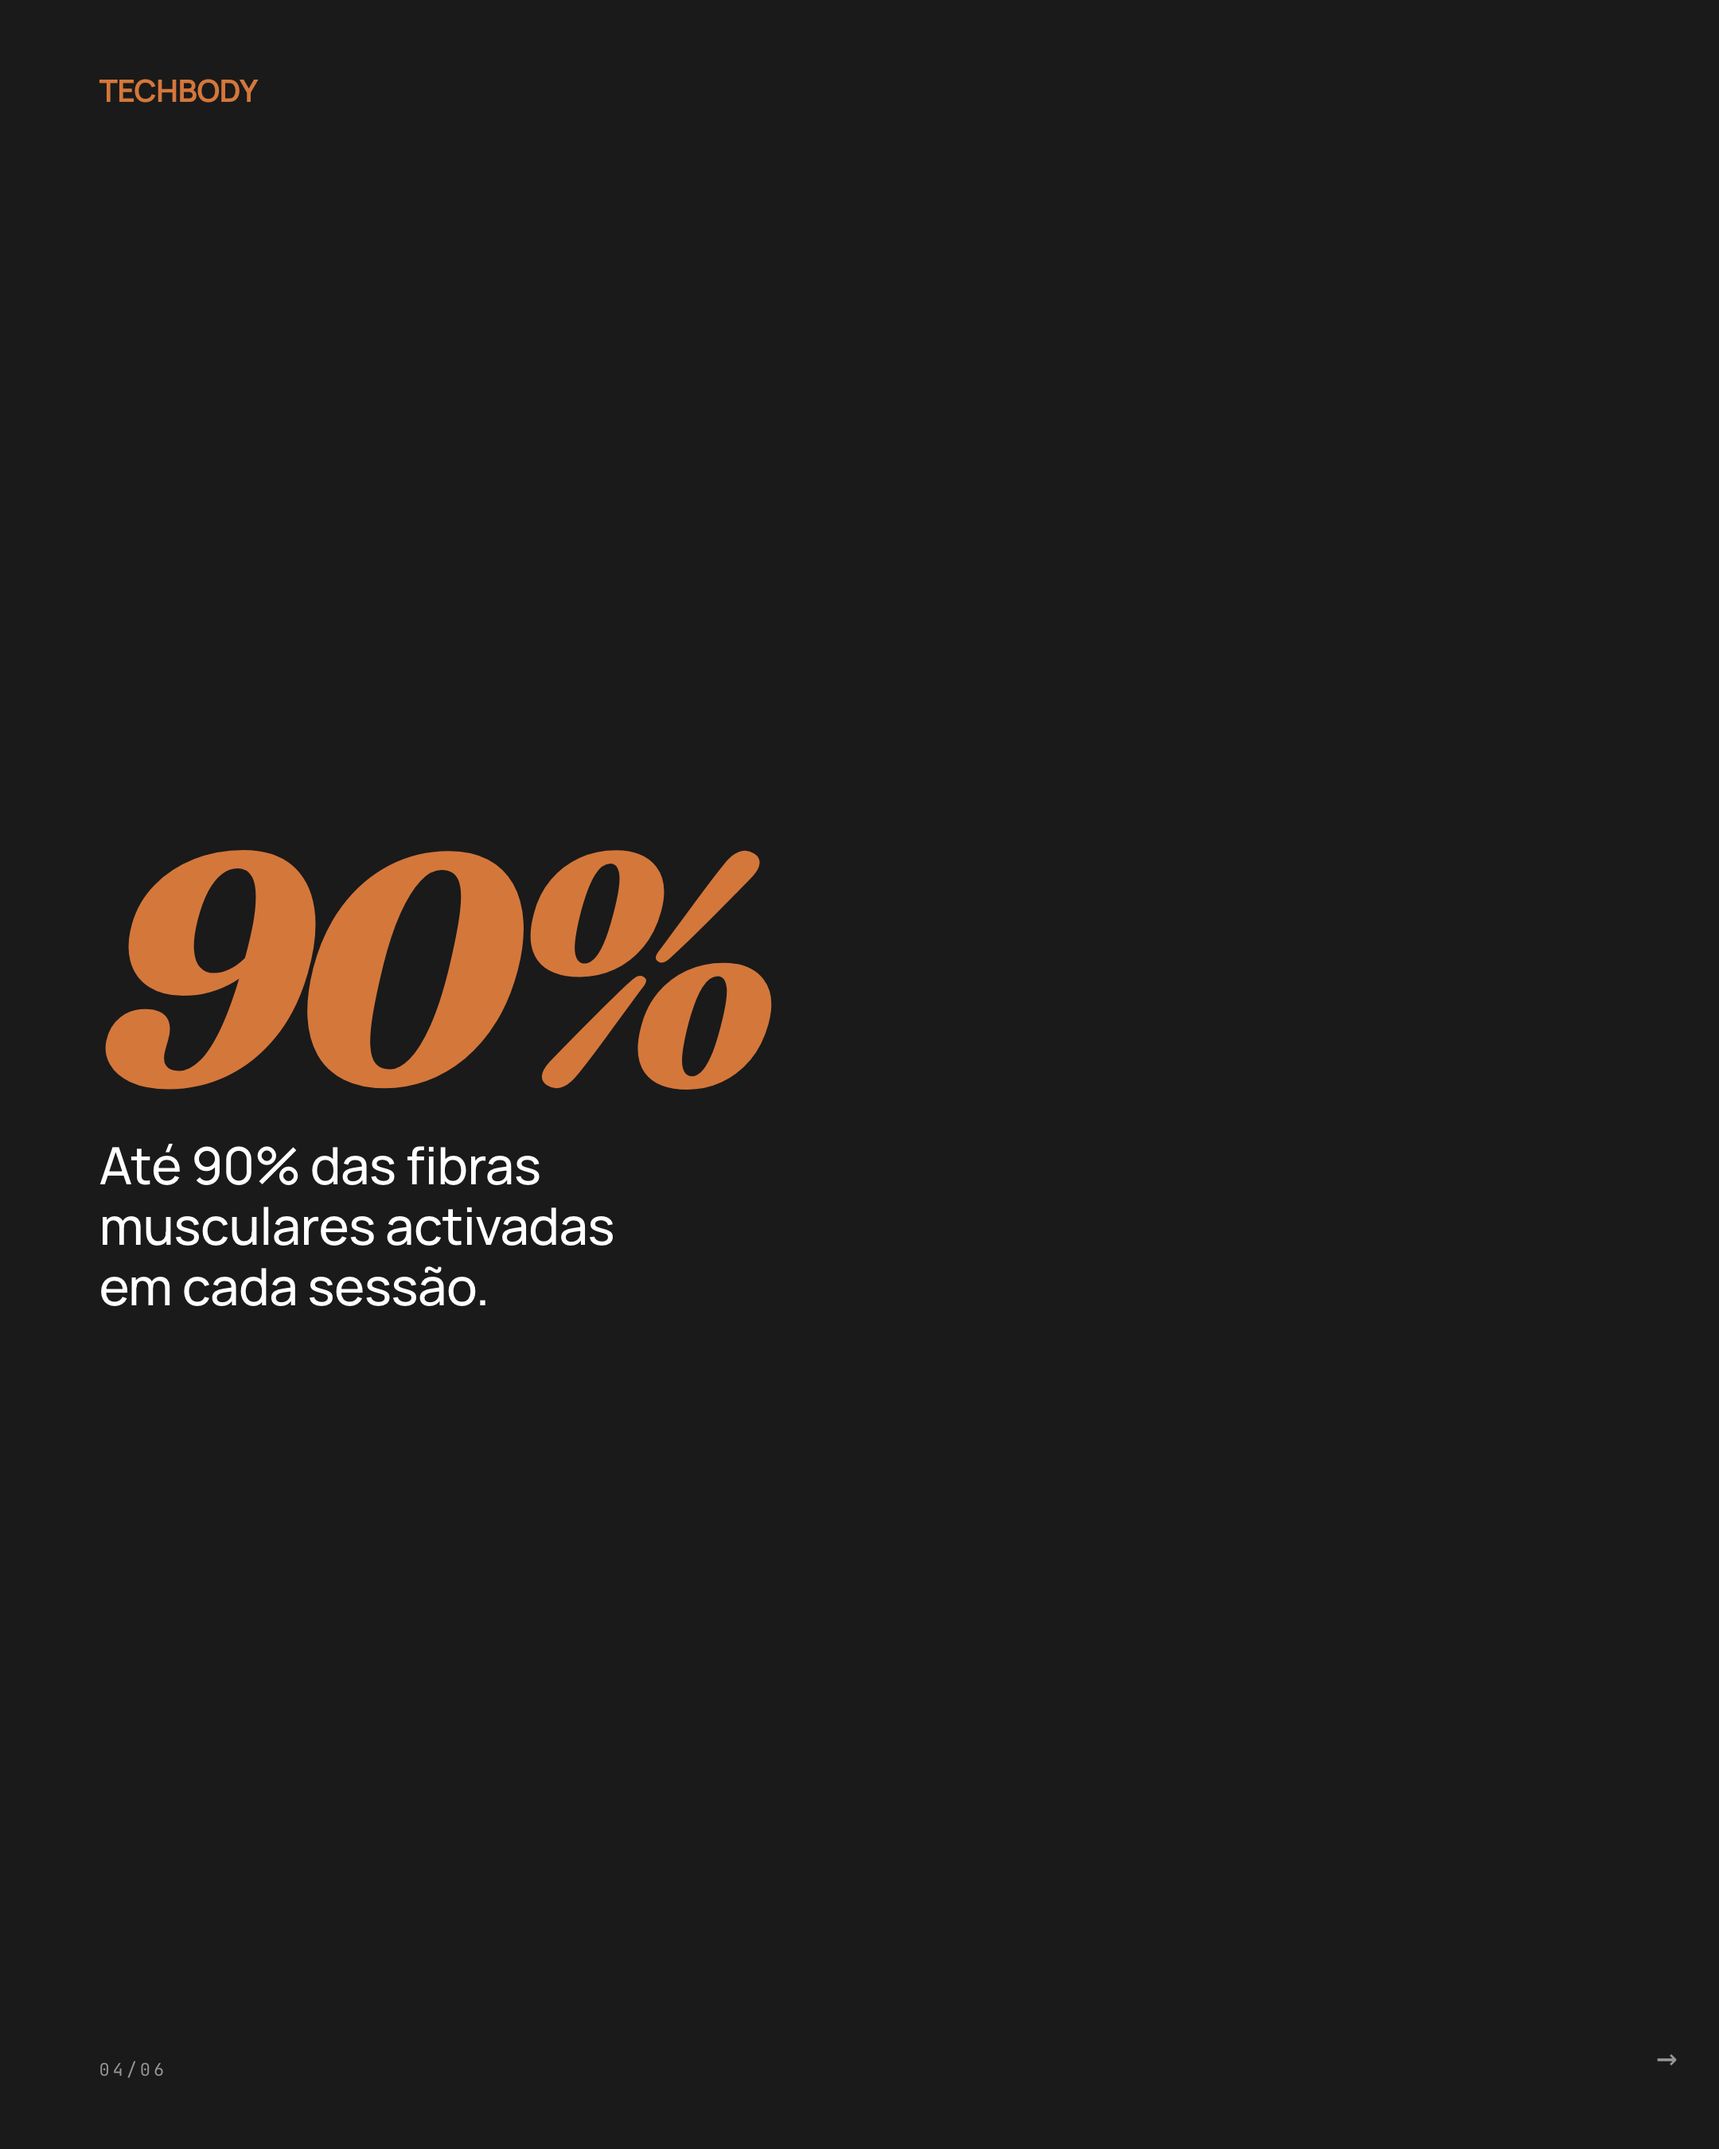
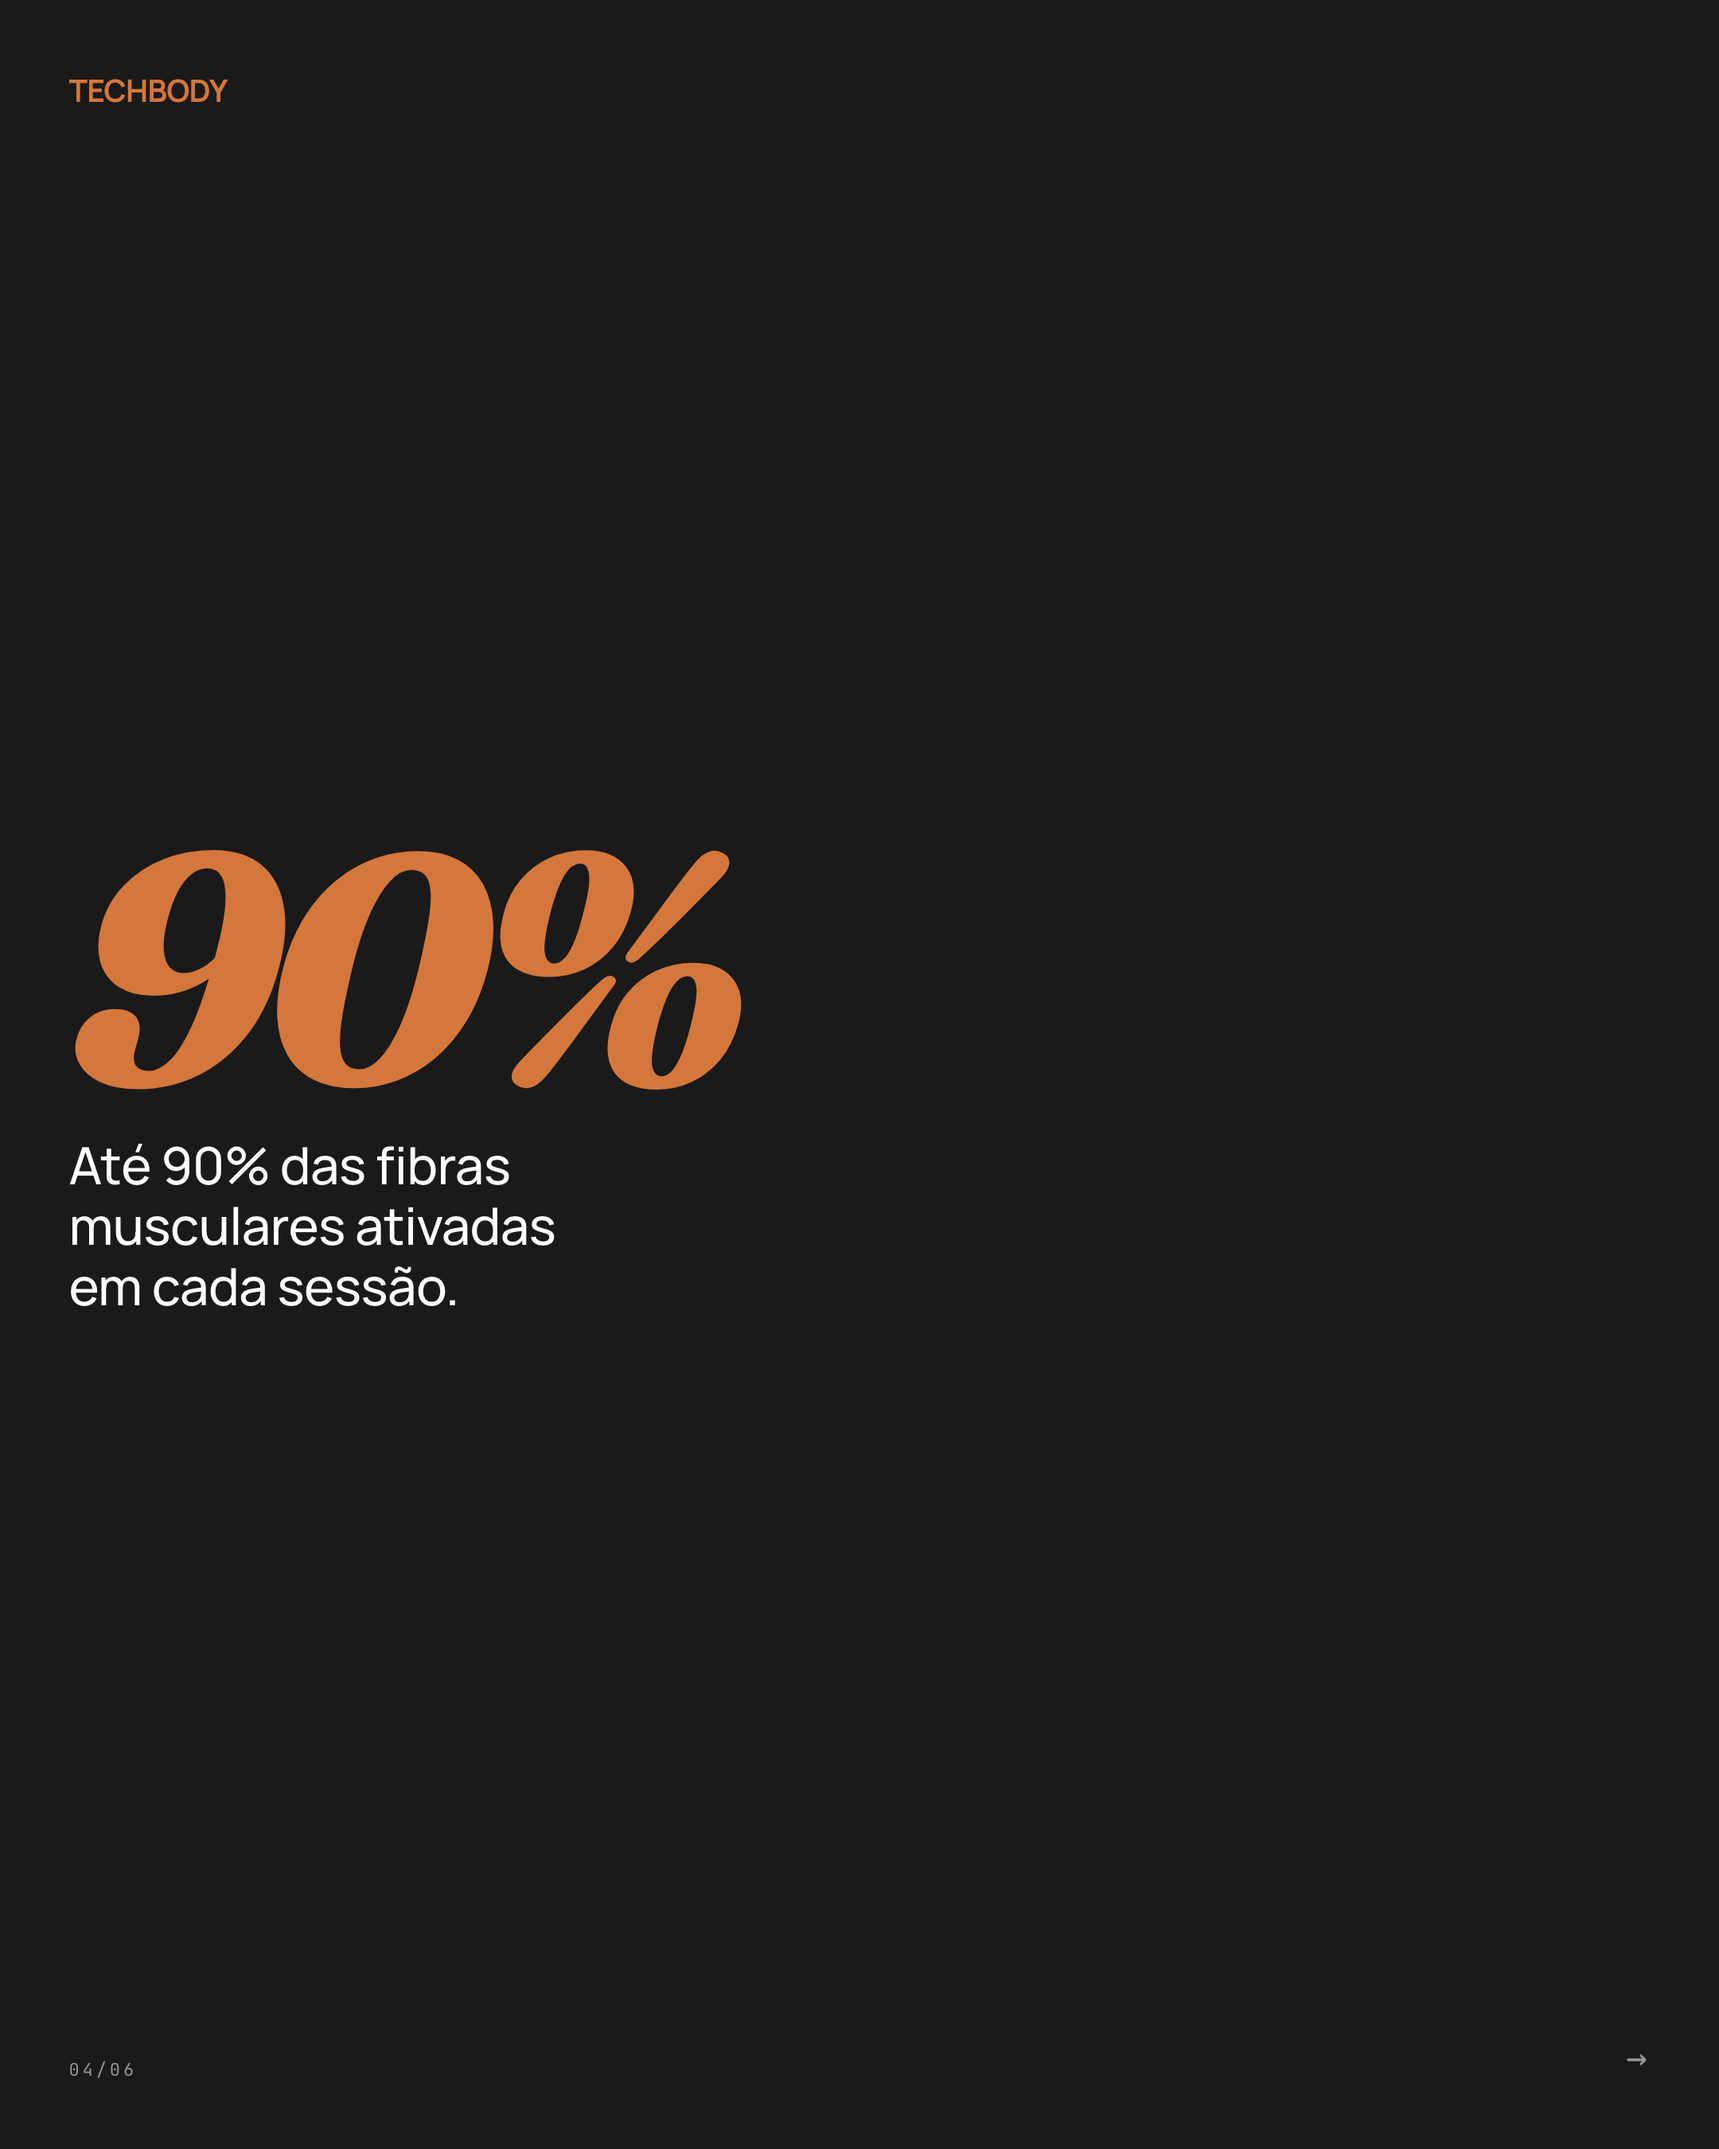
fix(copy): correções AO90 nas captions TB+Luiz + slide ativadas + higiene
- captions.json (TB+Luiz): activa→ativa, objectivos→objetivos, reactivar→
  reativar, colecções→coleções, actualizadas→atualizadas (10 strings).
- slide c01-experiencia-sessao (techbody): "activadas"→"ativadas" + re-render
  do slide_04.png.
- remove .DS_Store rastreados + reforça .gitignore.
- APP_VERSION TB e Luiz → 20260527-1300.
Capitalização verificada: ficheiros já corretos (browser mostrava cache).

Changed region(s): [[0.031, 0.3733, 0.4653, 0.6222], [0.031, 0.0311, 0.1551, 0.0622]]

diff --git a/public/aprovacao-tb-202605/brands/techbody/output/2026-05/carrosseis/c01-experiencia-sessao.html b/public/aprovacao-tb-202605/brands/techbody/output/2026-05/carrosseis/c01-experiencia-sessao.html
@@ -184,7 +184,7 @@ h1, h2, h3, p, blockquote, .num {
   <div class="slide__top"><span class="brand-glyph">TechBody</span></div>
   <div class="slide__body">
         <div class="num">90%</div>
-        <h1>Até 90% das fibras musculares activadas em&nbsp;cada sessão.</h1>
+        <h1>Até 90% das fibras musculares ativadas em&nbsp;cada sessão.</h1>
         </div>
   <div class="slide__bottom"><span>04/06</span><span class="arrow">→</span></div>
 </article>

diff --git a/public/aprovacao-luiz-202605/js/config.js b/public/aprovacao-luiz-202605/js/config.js
@@ -33,4 +33,4 @@ export const AUTH_ENABLED = false;
 // Versão do app. Comparada periodicamente contra /version.txt no servidor.
 // Se divergir, o badge muda para "🔄 Nova versão" e o user sabe que está
 // numa sessão desactualizada. Bump em cada deploy importante.
-export const APP_VERSION = "20260527-1245";
+export const APP_VERSION = "20260527-1300";

diff --git a/public/aprovacao-tb-202605/js/config.js b/public/aprovacao-tb-202605/js/config.js
@@ -33,4 +33,4 @@ export const AUTH_ENABLED = false;
 // Versão do app. Comparada periodicamente contra /version.txt no servidor.
 // Se divergir, o badge muda para "🔄 Nova versão" e o user sabe que está
 // numa sessão desactualizada. Bump em cada deploy importante.
-export const APP_VERSION = "20260527-0050";
+export const APP_VERSION = "20260527-1300";

diff --git a/public/aprovacao-luiz-202605/index.html b/public/aprovacao-luiz-202605/index.html
@@ -3,7 +3,7 @@
 <head>
 <meta charset="utf-8" />
 <meta name="viewport" content="width=device-width,initial-scale=1" />
-<meta name="app-version" content="20260527-1245" />
+<meta name="app-version" content="20260527-1300" />
 <title>Aprovação · Conteúdo</title>
 
 <script>

diff --git a/public/aprovacao-tb-202605/index.html b/public/aprovacao-tb-202605/index.html
@@ -3,7 +3,7 @@
 <head>
 <meta charset="utf-8" />
 <meta name="viewport" content="width=device-width,initial-scale=1" />
-<meta name="app-version" content="20260527-0050" />
+<meta name="app-version" content="20260527-1300" />
 <title>Aprovação · Conteúdo</title>
 
 <script>
